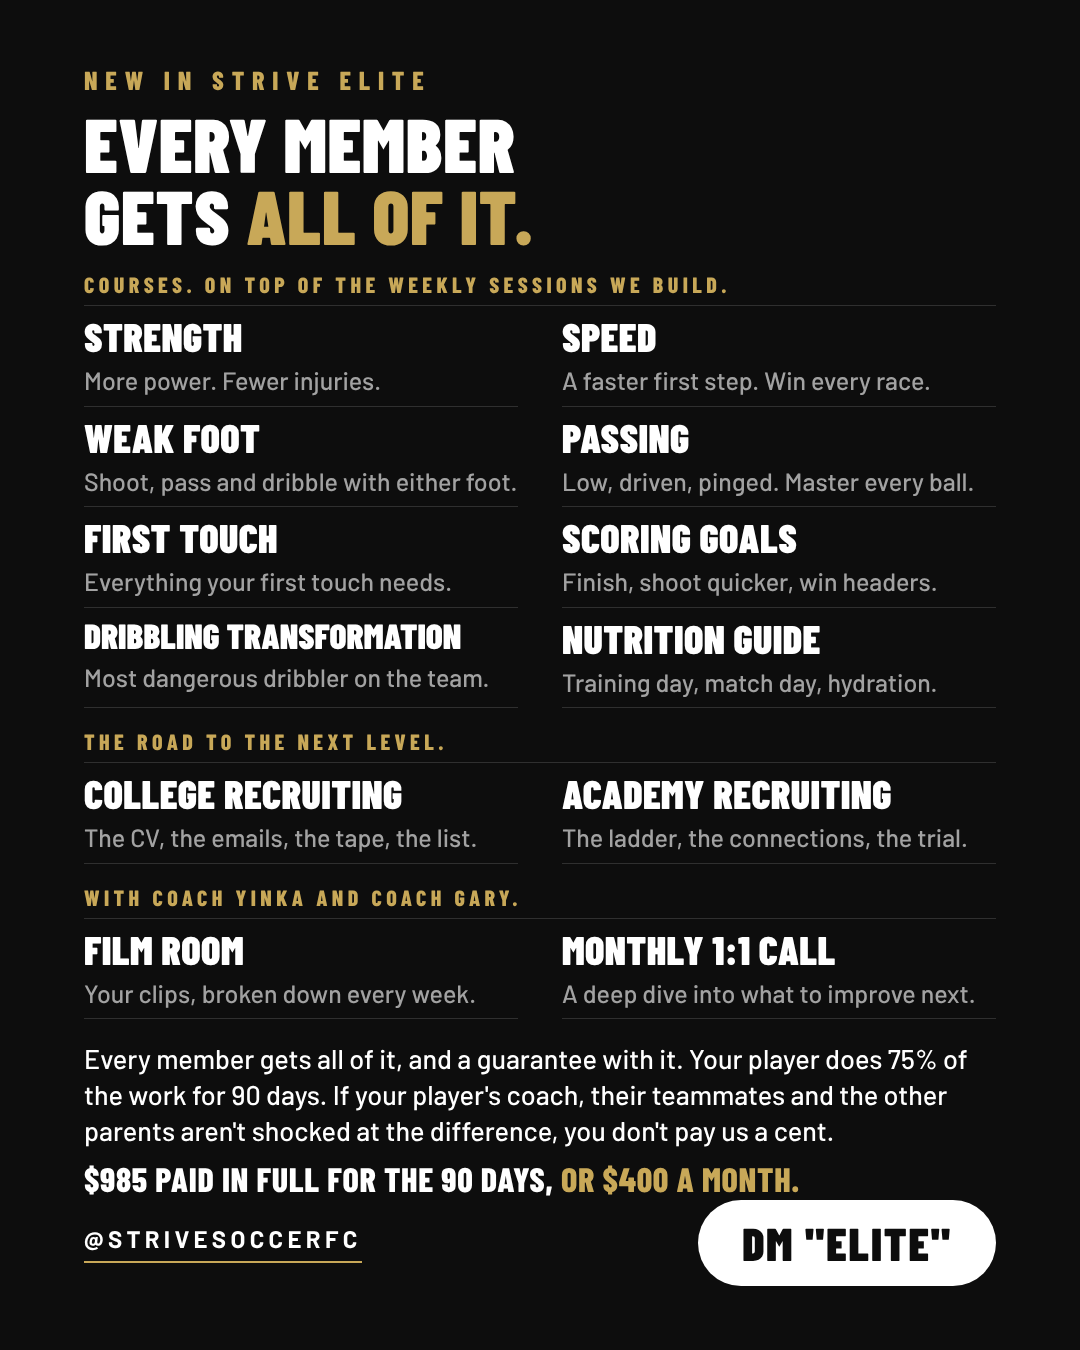
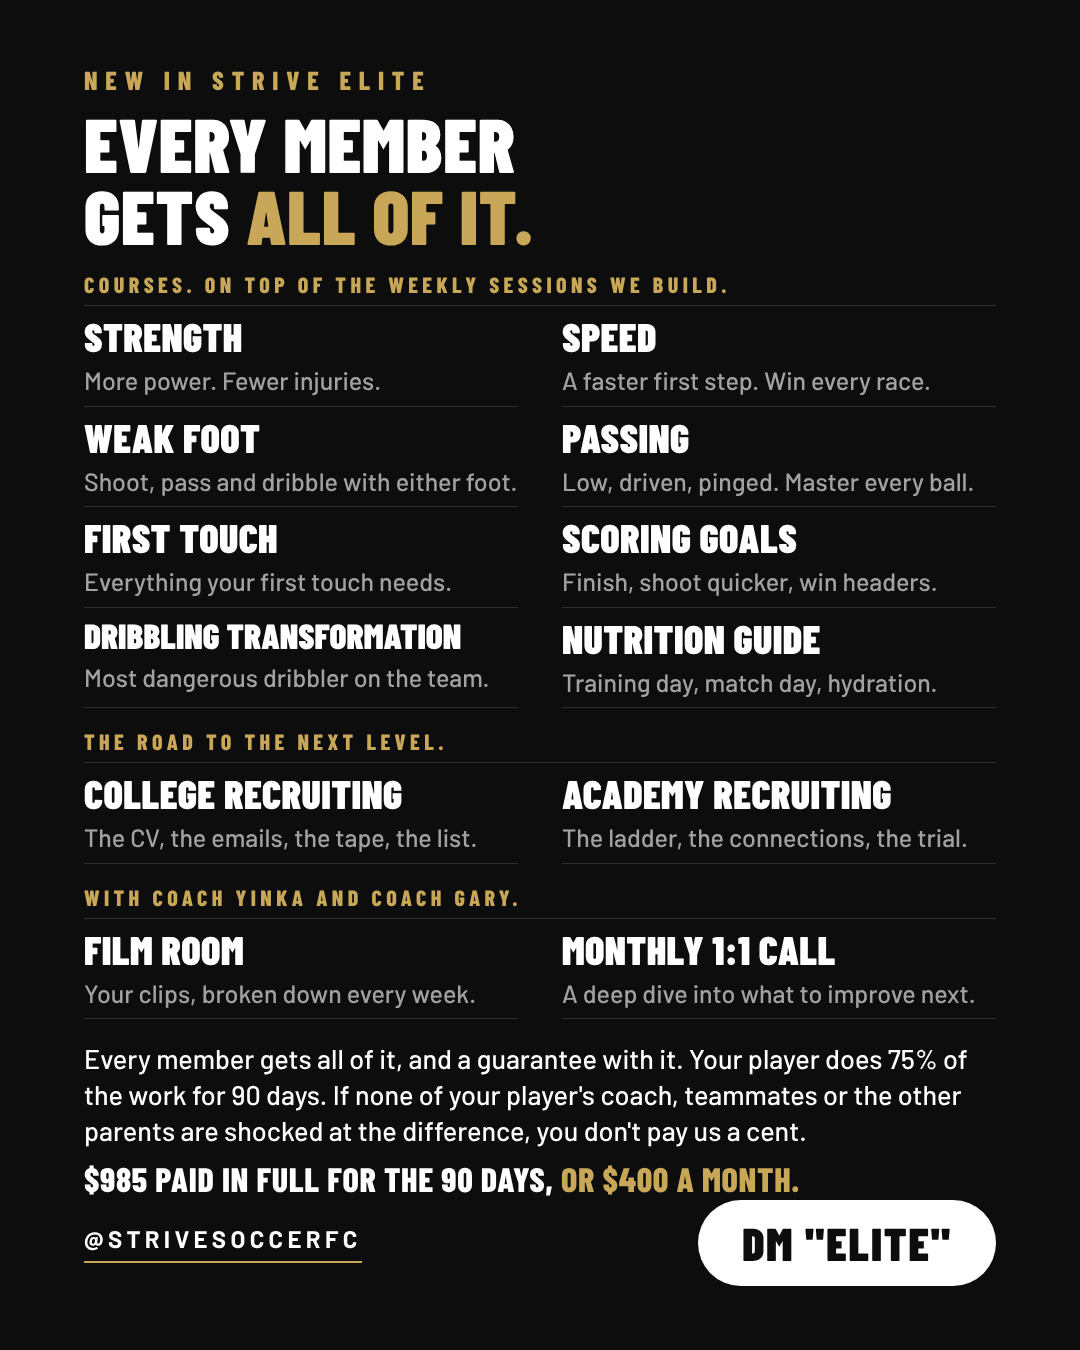
Offer carousel: guarantee says none of the coach, teammates or other parents
Claude-Session: https://claude.ai/code/session_011JsCTTjCbUkHbTuWTKQSXJ

Changed region(s): [[0.2444, 0.8089, 0.8861, 0.8711]]

diff --git a/marketing/announcement/offer-post/post.html b/marketing/announcement/offer-post/post.html
@@ -53,7 +53,7 @@ h1{font-family:'Barlow Condensed';font-weight:900;font-size:76px;line-height:.95
   <div class="item last"><b>Monthly 1:1 Call</b><p>A deep dive into what to improve next.</p></div>
 </div>
 
-<p class="all">Every member gets all of it, and a guarantee with it. Your player does 75% of the work for 90 days. If your player's coach, their teammates and the other parents aren't shocked at the difference, you don't pay us a cent.</p>
+<p class="all">Every member gets all of it, and a guarantee with it. Your player does 75% of the work for 90 days. If none of your player's coach, teammates or the other parents are shocked at the difference, you don't pay us a cent.</p>
 <p class="price">$985 paid in full for the 90 days, <span>or $400 a month.</span></p>
 
 <div class="bar">

diff --git a/marketing/announcement/offer-post/promise.html b/marketing/announcement/offer-post/promise.html
@@ -32,7 +32,7 @@ h1{font-family:'Barlow Condensed';font-weight:900;font-size:132px;line-height:.9
 
 <div class="steps">
   <p class="t">Your player does <b>75% of the work</b> we give them for 90 days.</p>
-  <p class="t">If their coach, teammates and the other parents aren't <b>shocked</b> at the difference, <b>you don't pay us a cent.</b></p>
+  <p class="t">If none of their coach, teammates or the other parents are <b>shocked</b> at the difference, <b>you don't pay us a cent.</b></p>
   <p class="t">And we keep working with your player, <b>free</b>, until they are.</p>
 </div>
 

diff --git a/CLAUDE.md b/CLAUDE.md
@@ -3725,6 +3725,17 @@ commit.
       short line pair: "Every session is tracked in the app, so the
       75% is a number, not an opinion. The result is judged by the
       people who watch them play, not by us." Sent.
+      THEN (Coach Yinka: "And use the word or so it doesn't imply all
+      3"): step 2 is "If none of their coach, teammates or the other
+      parents are shocked at the difference, you don't pay us a cent."
+      A bare "or" in "if the coach, teammates or parents aren't
+      shocked" can be read as ANY ONE not being shocked triggers the
+      refund, which is far more expensive for Strive and is not the
+      guarantee he built; "none of ... or ..." keeps the intent: one
+      of the three being shocked is enough, nobody being shocked is a
+      refund. The standalone post and the caption read the same:
+      "If none of your player's coach, teammates or the other parents
+      are shocked at the difference, you don't pay us a cent." Sent.
 
 ## Growth target (stamped Sept 19, Coach Yinka's own call)
 

diff --git a/marketing/announcement/strive-elite-offer-post.md b/marketing/announcement/strive-elite-offer-post.md
@@ -57,7 +57,7 @@ A deep dive into what to improve next and exactly how to work on it.
 DRIBBLING TRANSFORMATION
 Thirty days of work to become the silkiest, most dangerous dribbler on the team.
 
-Every member gets all of it, and a guarantee with it. Your player does 75% of the work for 90 days. If your player's coach, their teammates and the other parents aren't shocked at the difference, you don't pay us a cent. And we keep working with your player, free, until they are.
+Every member gets all of it, and a guarantee with it. Your player does 75% of the work for 90 days. If none of your player's coach, teammates or the other parents are shocked at the difference, you don't pay us a cent. And we keep working with your player, free, until they are.
 
 For ECNL and MLS NEXT players who want the next level. Designed by players who have done just that.
 
